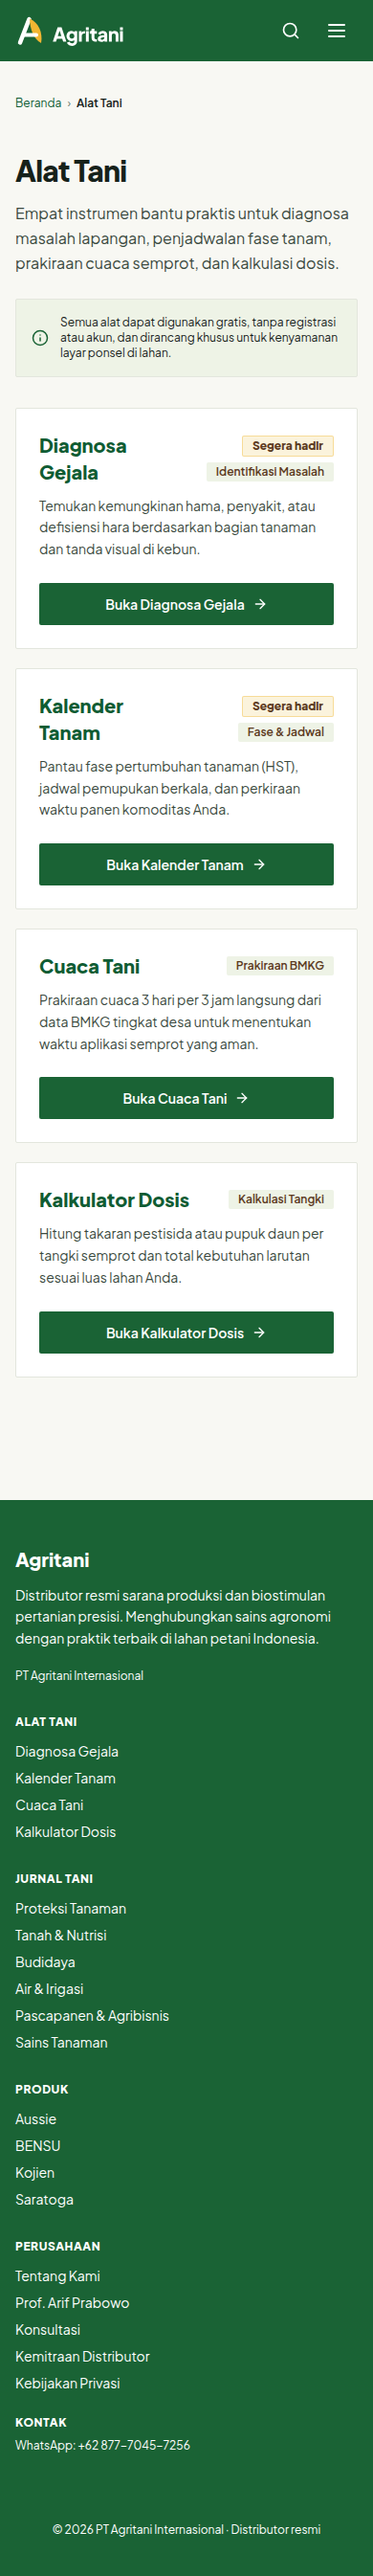
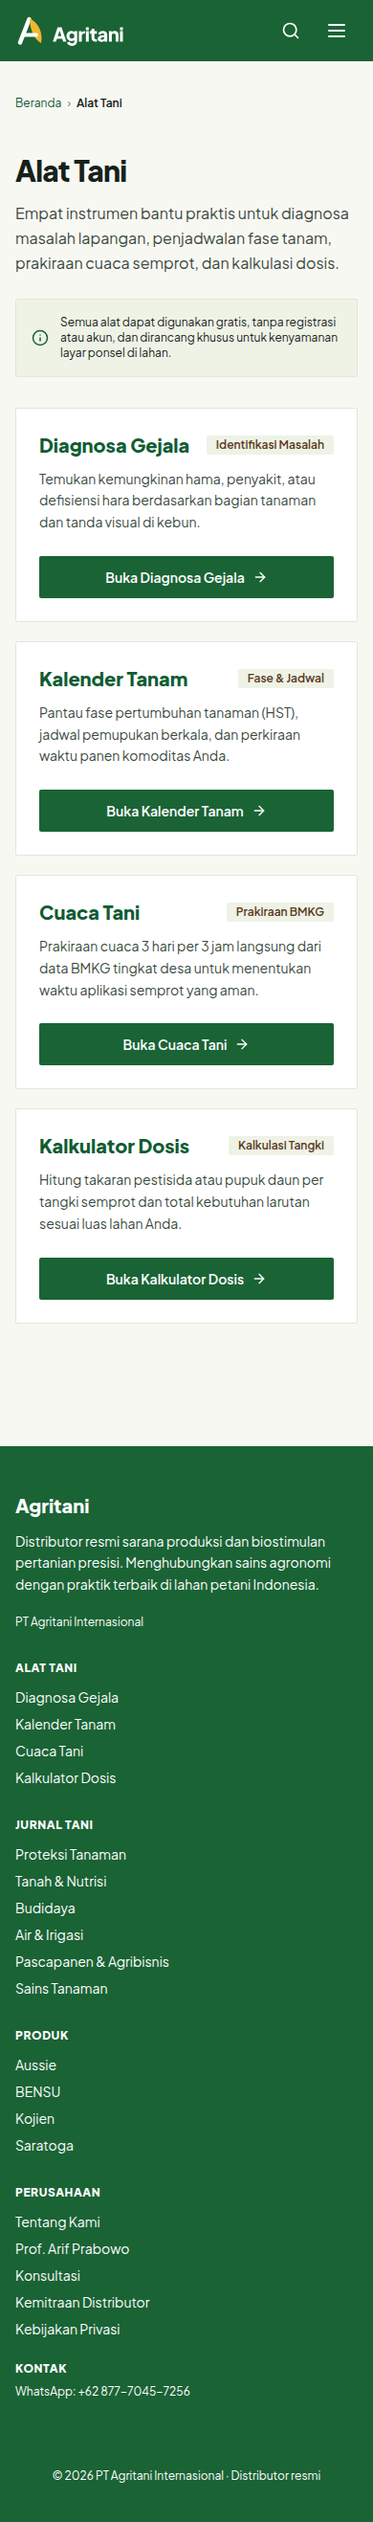
fix(alat): revert changes to src/pages/alat/index.astro per coordination

diff --git a/docs/build-notes/launch-content.md b/docs/build-notes/launch-content.md
@@ -15,7 +15,7 @@ Dokumen ini mencatat catatan implementasi, bukti verifikasi, dan temuan telaah e
 
 ## 2. Alat Tersembunyi (A.8)
 
-- **Halaman Indeks Alat (`src/pages/alat/index.astro`)**: Memeriksa ketersediaan data yang telah ditinjau (`reviewedBy`). Jika belum ada data tertinjau di produksi, kartu Diagnosa Gejala dan Kalender Tanam secara otomatis diberi badge "Segera hadir".
+- **Halaman Indeks Alat (`src/pages/alat/index.astro`)**: Dibiarkan tidak disentuh pada branch ini sesuai koordinasi (dikerjakan di branch lain).
 - **Integritas Gejala (`src/lib/content-integrity.ts`)**: Gejala yang belum ditinjau (`reviewedBy` kosong) disembunyikan di produksi dan tidak menggagalkan build produksi jika merujuk artikel draf. Hanya gejala yang tampil (`reviewedBy` terisi) yang wajib menunjuk artikel terbit.
 
 ---
@@ -181,7 +181,7 @@ x-content-type-options: nosniff
 Tangkapan layar resolusi seluler (390px) dan desktop (1440px) dihasilkan menggunakan `agritani-shot.cjs` dan tersimpan di `proof/ui/launch-content/`:
 - `beranda-390.png` & `beranda-1440.png`: Membuktikan footer dengan tautan resmi WhatsApp tanpa placeholder alamat.
 - `konsultasi-390.png` & `konsultasi-1440.png`: Membuktikan halaman konsultasi bersih tanpa baris jam operasional placeholder.
-- `alat-index-390.png` & `alat-index-1440.png`: Membuktikan badge "Segera hadir" pada Diagnosa Gejala dan Kalender Tanam saat data tertinjau belum tersedia di produksi.
+- `alat-index-390.png` & `alat-index-1440.png`: Membuktikan tampilan halaman indeks alat tani tanpa perubahan pada berkas `src/pages/alat/index.astro`.
 - `jurnal-index-390.png` & `jurnal-index-1440.png`: Membuktikan indeks jurnal hanya memuat 8 artikel terbitan Batch 1.
 - `artikel-antraknosa-390.png` & `artikel-antraknosa-1440.png`: Membuktikan artikel antraknosa dengan judul terevisi, DOI Crossref resmi, dan jawaban singkat 40–60 kata.
 - `artikel-wereng-390.png` & `artikel-wereng-1440.png`: Membuktikan artikel wereng batang coklat dengan DOI terverifikasi dan tanpa klaim overpromising.
